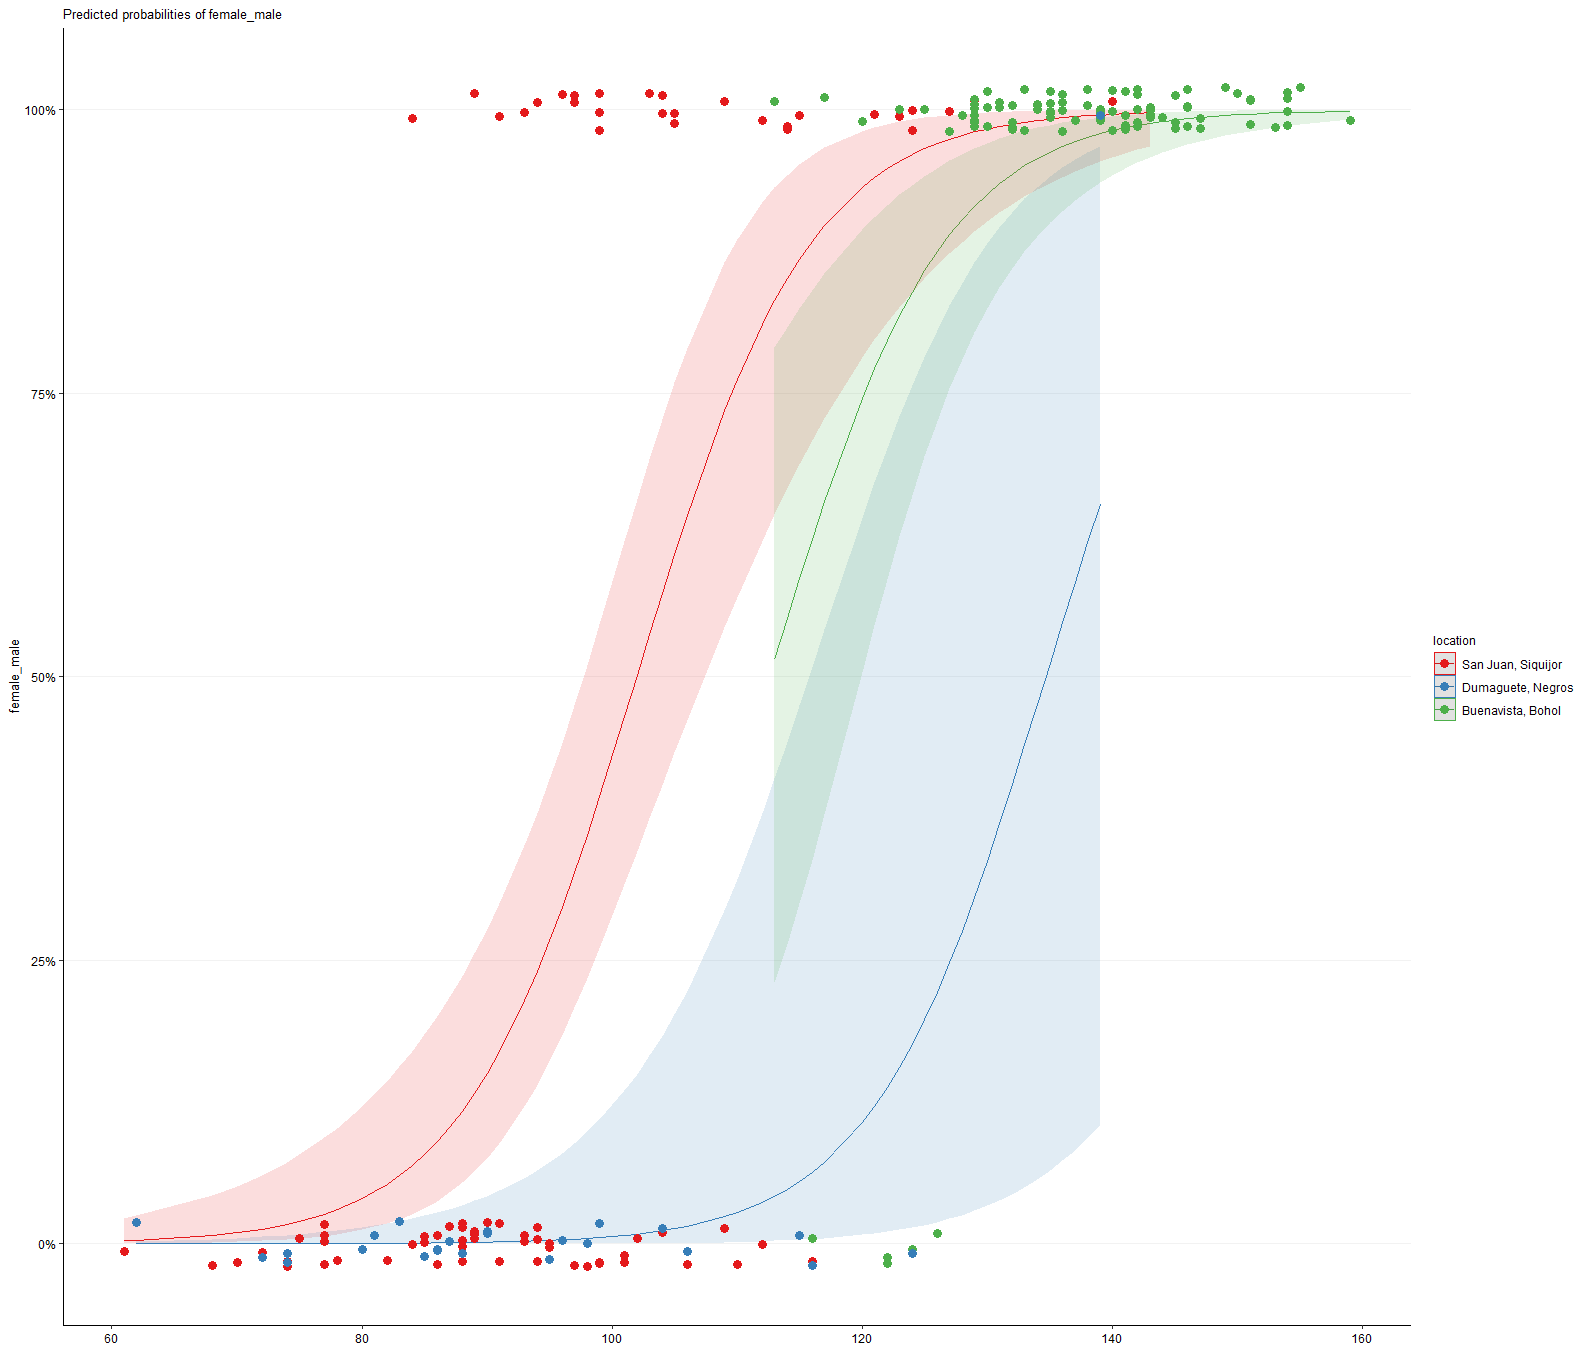
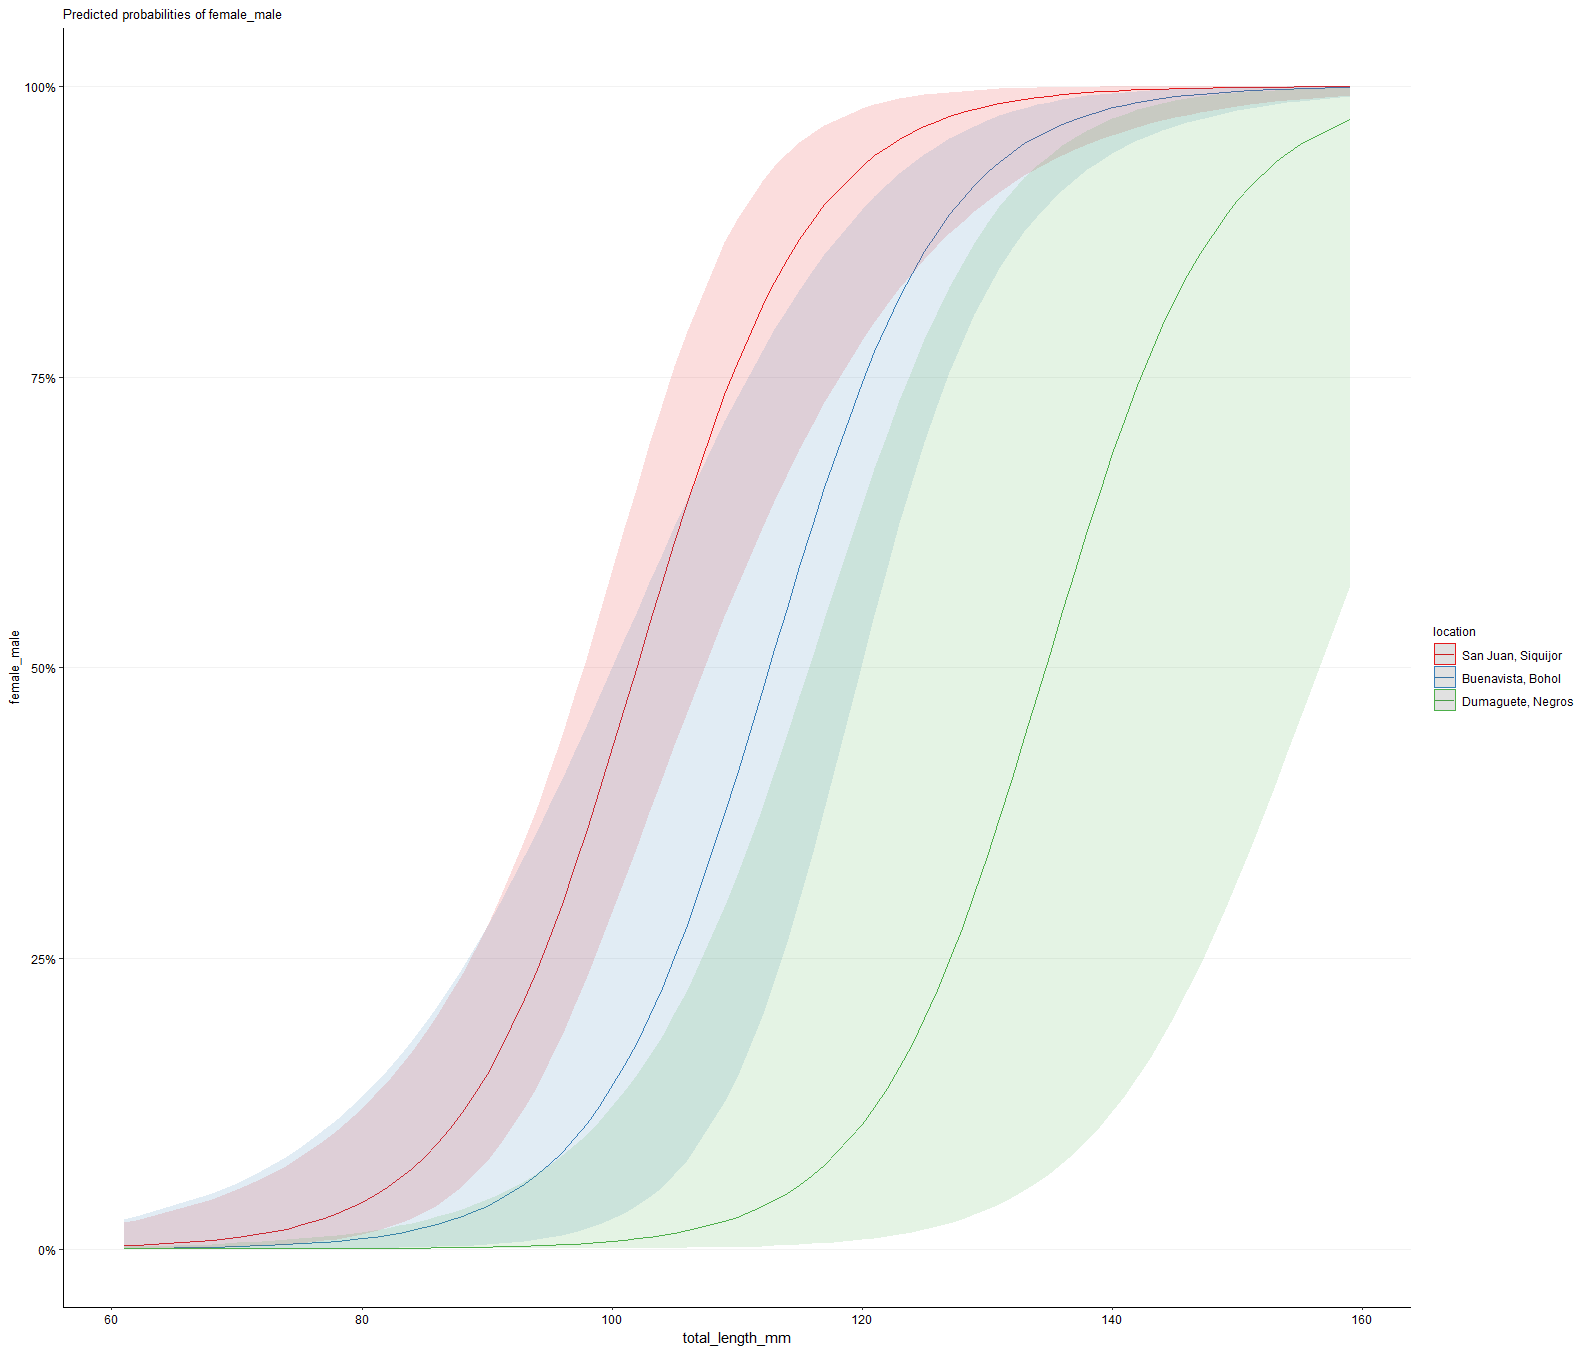
reorg dirs

diff --git a/statistics/model_fitting/fixed_models_binom/README.md b/statistics/model_fitting/fixed_models_binom/README.md
@@ -186,7 +186,8 @@ contrasts_model_regrid <<-
 
 ## Group Sites by Significant Differences with `multicomp::cld`
 
-It is often very convenient to categorize the levels of your categorical variable (location) into groups with significant differences. 
+
+It is often very convenient to categorize the levels of your categorical variable (location) into groups with significant differences.  One last handy tool is the `multcomp::cld` command, which groups sites together that are not significantly different. You will see in my commented code below that I am skeptical about the emmeans confidence limits calculated by `cld`, but the groupings generally work well.  This is especially true when there are many groups and it becomes difficult to track them all.  The letter based groupings are great to add to figures. 
 
 ```r
 groupings_model <<-
@@ -239,52 +240,65 @@ Fig 8. Estimated marginal means for the probability that 116mm fish are male at 
 
 --
 
-## Visualize Model Predictions (Probability of being Male vs Total Length)
+## Visualize Model Predictions (Probability of being Male vs Total Length) with `ggeffects::ggemmeans`
 
-We have tested our hypothesis, but the tables above are not completely satisfying.  What about the probability of fish being male at lengths other than the mean?  We can calculate the estimated marginal means and confidence limits for different values of `total_length_mm` and generate a plot very easily with `ggemmeans`. 
+We have tested our hypothesis, but the tables and figures above are not completely satisfying. What about the probability of fish being male at lengths other than the mean?  We would like to show the model output in the same format as Fig 6 above.  Well, we can calculate the estimated marginal means and confidence limits for many values of `total_length_mm` and generate a plot very easily with `ggemmeans`. By setting `terms = "total_length_mm [all]"` many values of total length will be evaluated from the min to the max observed values.
+
+```r
+emmeans_ggpredict <- 
+  ggemmeans(model,
+            terms = c("total_length_mm [all]",
+                      "location")) 
+  # compatible with ggplot
+  # shows models, but extrapolates beyond observations
+  plot(emmeans_ggpredict) +
+    #this is our custom plot theme defined in USER DEFINED VARIABLES
+    theme_myfigs
+```
 
 ![](Rplot08.png)
-Fig 9. Plots of fish sex (F=0, M=1) against total length.  Fit lines are based on the glm (female_male ~ total_length_mm + location).  The points are the observed data with vertical jittering to better visualize multiple observations of the same length and sex.
+Fig 9. Plots of fish sex (F=0, M=1) against total length.  Fit lines are based on the glm (female_male ~ total_length_mm + location). 
+
+This plot (Fig 9) is pretty good, but it contains extrapolations and does not accurately reflect the data.  We can make this better by filtering the tibble created by `ggemmeans` down to those between the min and max length for each location and adding the original data to the plot using `geom_jitter()`.  In the example below, we use `ggpredict` to bring your attention to its existence, but in this case it is interchangable with `ggemmeans`.
+
+```r
+#make a tibble that has the max and min continuous xvar for each categorical xvar
+min_max_xvar <-  
+data %>%
+  rename(x = total_length_mm,
+		 group = location) %>%
+  group_by(group) %>%
+  filter(x == max(x) |
+		   x == min(x)) %>%
+  dplyr::select(group,
+				x) %>%
+  arrange(group,
+		  x) %>%
+  mutate(min_max = case_when(row_number() %% 2 == 0 ~ "max_x",
+							 TRUE ~ "min_x")) %>%
+  pivot_wider(names_from = min_max,
+			  values_from = x)
+# then use that tibble to filter the object made by ggpredict and plot
+emmeans_ggpredict %>%
+left_join(min_max_xvar) %>% 
+filter(x >= min_x,
+	   x <= max_x) %>% 
+plot() +
+#add in our observed values of female_male
+geom_jitter(data = data,
+		   aes(x = total_length_mm,
+			   y = female_male,
+			   color = location),
+		   size = 3,
+		   inherit.aes = FALSE,
+		   width = 0,
+		   height = 0.02) +
+theme_myfigs
+```
+
+![](Rplot09.png)
+Fig 10. Plots of fish sex (F=0, M=1) against total length.  Fit lines are based on the glm (female_male ~ total_length_mm + location).  The points are the observed data with vertical jittering to better visualize multiple observations of the same length and sex.
 
 This model, without interactions, does not allow the slopes to vary freely among sites, which might be desirable because there are different ranges of sizes at different sites.  To see the alternative, change the model to `formula = female_male ~ total_length_mm * location`. 
 
 ---
-
-
----
-
-One last handy tool is the `multcomp::cld` command, which groups sites together that are not significantly different. You will see in my commented code below that I am skeptical about the emmeans calculated by cld, but the groupings generally work well.  This is especially true when there are many groups and it becomes difficult to track them all.  The letter based groupings are great to add to figures. 
-
-
-	groupings_model <<-
-	  multcomp::cld(emmeans_model, 
-					alpha = alpha_sig,
-					Letters = letters,
-					type="response",
-					adjust = "bh") %>%
-	  as.data.frame %>%
-	  mutate(group = str_remove_all(.group," "),
-			 group = str_replace_all(group,
-									 "(.)(.)",
-									 "\\1,\\2")) %>%
-	  rename(response = 3)
-	
-	# i noticed that the emmeans from groupings don't match those from emmeans so this is the table to use for making the figure
-	# the emmeans means and conf intervals match those produced by afex_plot, so I think those are what we want
-	groupings_model_fixed <<-
-	  summary(emmeans_model, 
-			  type="response") %>%
-	  tibble() %>%
-	  left_join(groupings_model %>%
-				  dplyr::select(-response:-asymp.UCL),
-				# by = c(str_replace(fixed_vars,
-				#                    "[\\+\\*]",
-				#                    '" , "'))) %>%
-				by = c("total_length_mm",
-					   "location")) %>%
-	  rename(response = 3)
-
-
-
----
-
